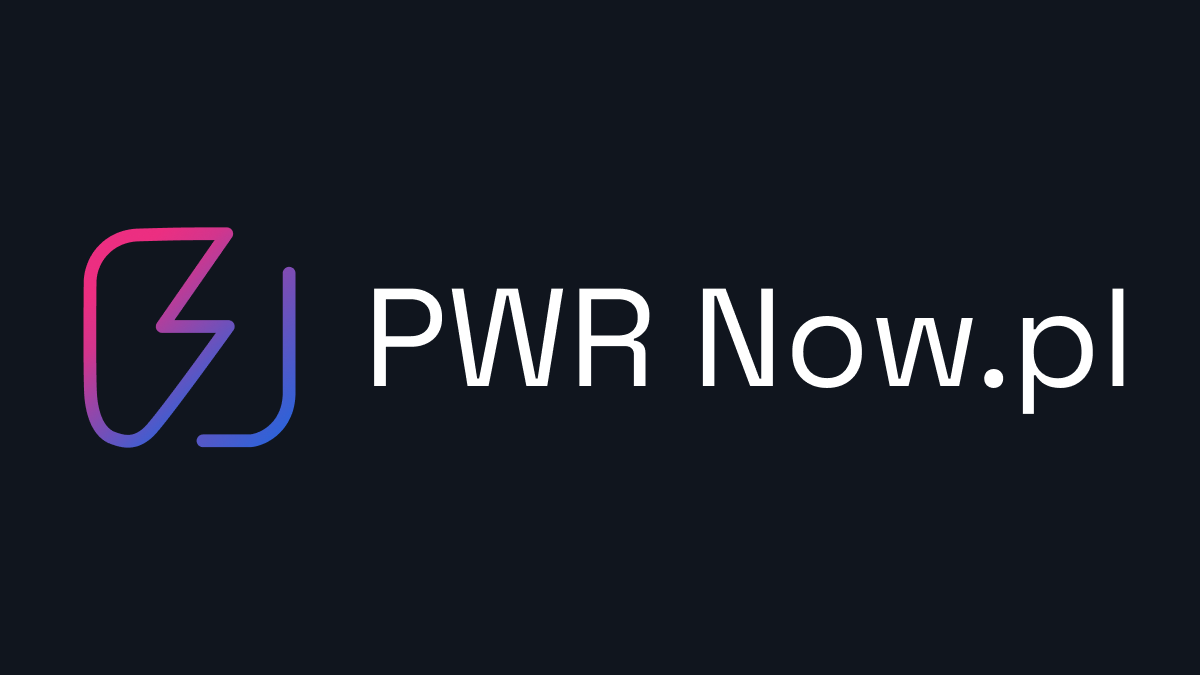
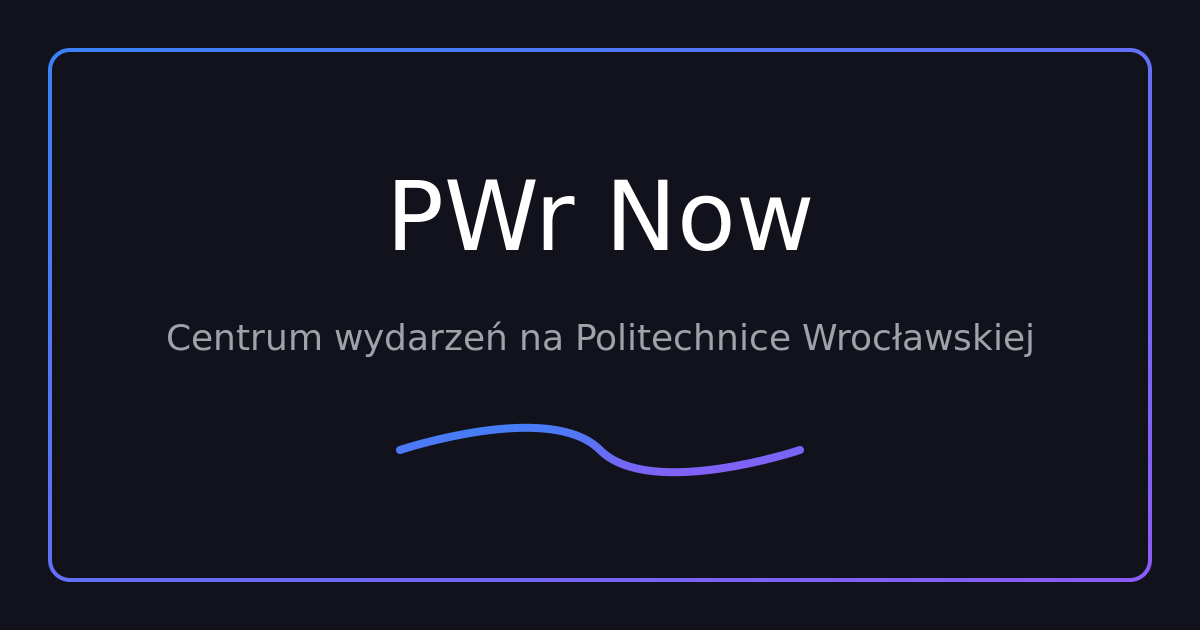
feat: add Open Graph image metadata for events page
- Included Open Graph image metadata in the events page for enhanced social sharing.
- Updated Twitter card metadata to include the Open Graph image for better visibility on social platforms.
- Added a new og-image.png file to the public directory for use in metadata.

diff --git a/web/app/(events)/page.tsx b/web/app/(events)/page.tsx
@@ -31,11 +31,20 @@ export const metadata: Metadata = {
     description: 'Odkryj najciekawsze wydarzenia w Twojej okolicy',
     type: 'website',
     siteName: 'PWrNow',
+    images: [
+      {
+        url: '/og-image.svg',
+        width: 1200,
+        height: 630,
+        alt: 'PWrNow - Wydarzenia',
+      },
+    ],
   },
   twitter: {
     card: 'summary_large_image',
     title: 'Wydarzenia | PWrNow',
     description: 'Odkryj najciekawsze wydarzenia w Twojej okolicy',
+    images: ['/og-image.svg'],
   },
   alternates: {
     canonical: '/',
